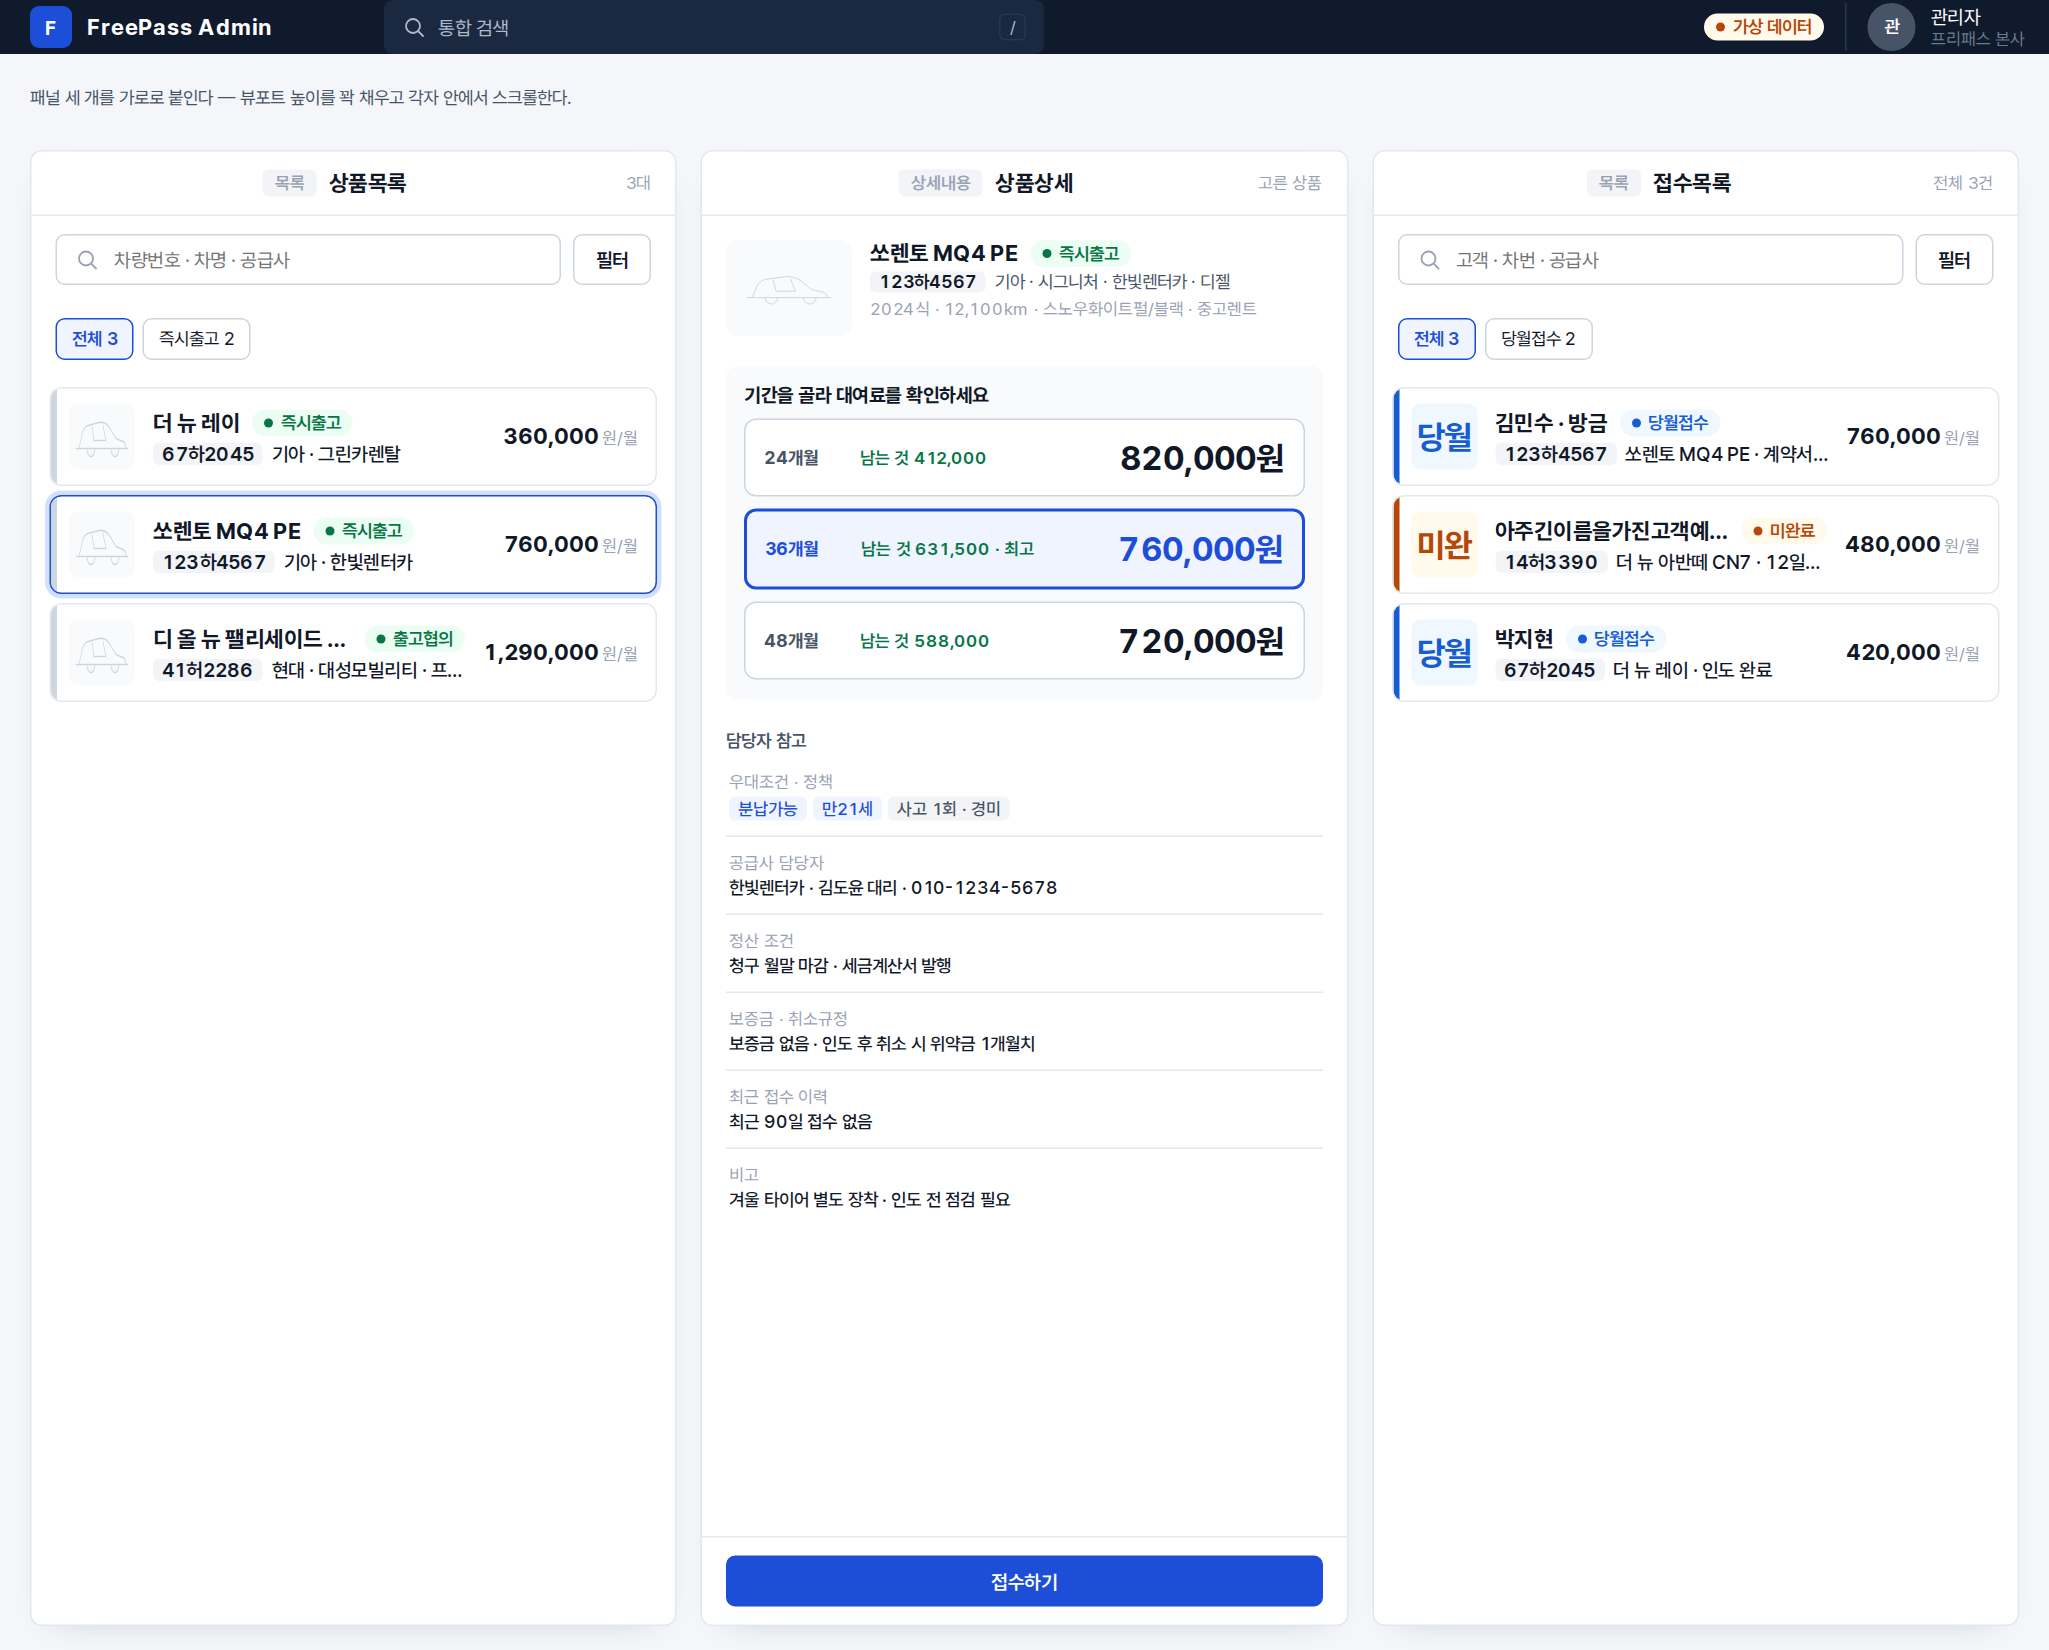
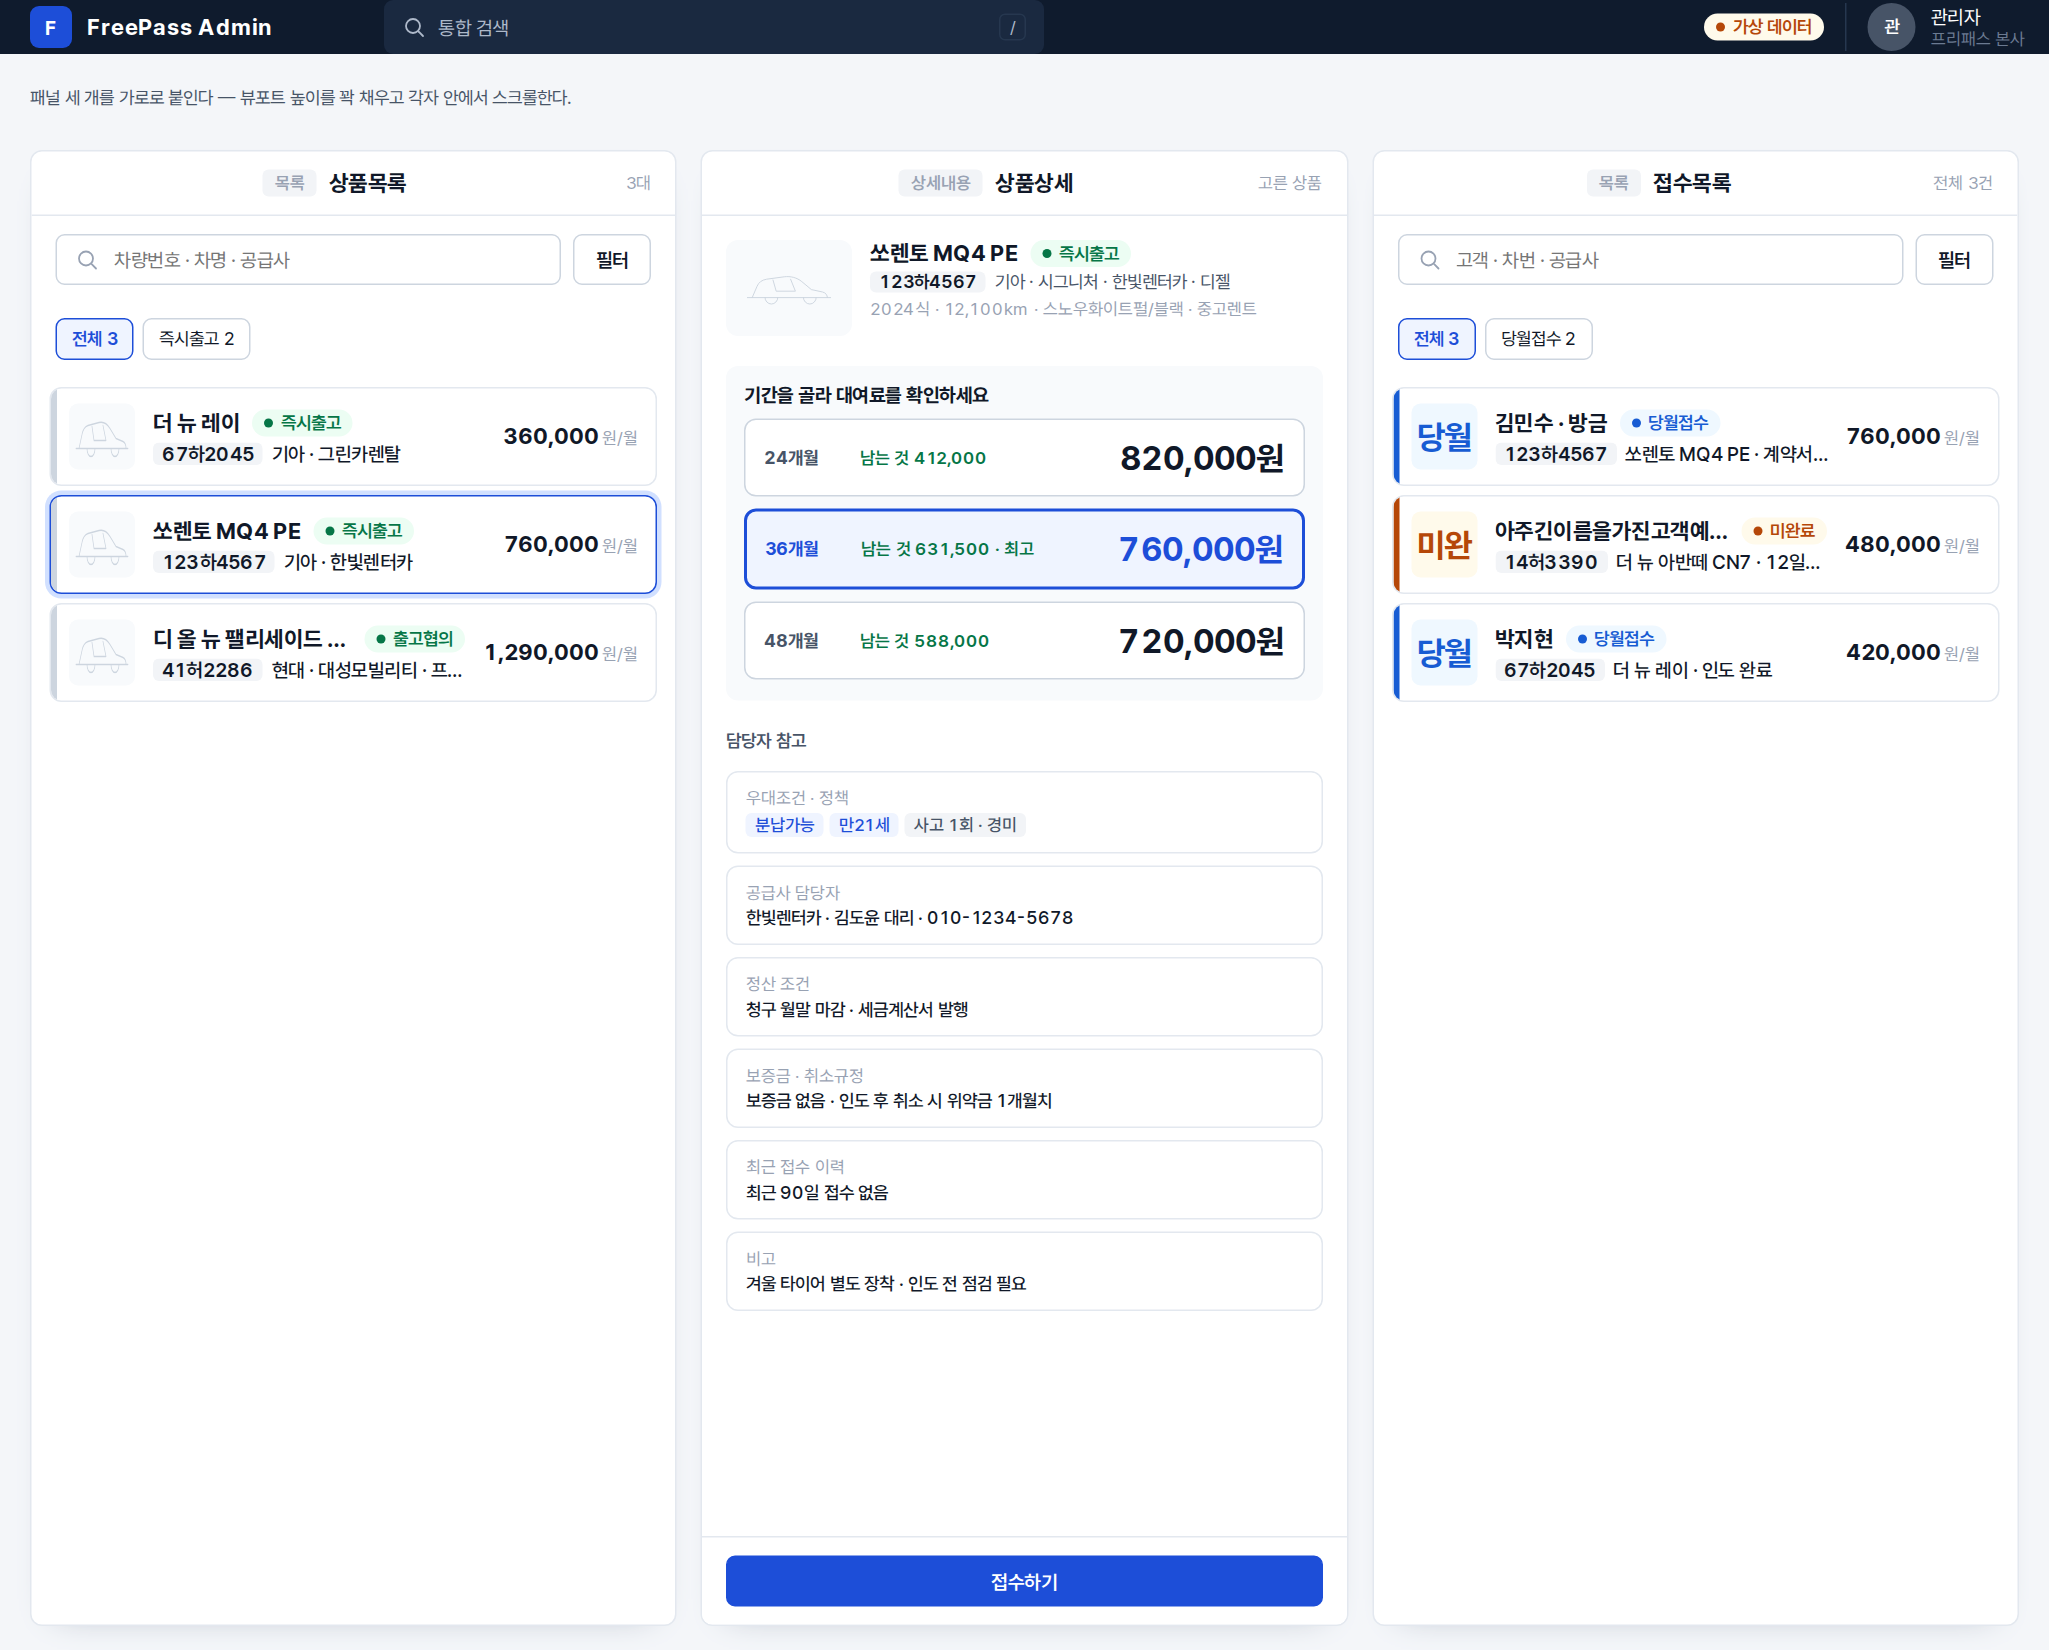
담당자 참고 항목을 구분선 목록 대신 카드 형태로
대표 지시 「카드 형태로 하자니까」 반영. sv-ref-list 항목마다 구분선으로
나누던 것을 자기 테두리를 가진 작은 카드(border-radius · surface 배경)로
바꿨다 — §5-3 목록 카드, sv-term 기간 카드와 같은 카드형 어휘를 따른다.

Claude-Session: https://claude.ai/code/session_01VHqvSXhUy82o1cFFrYMP3F

Changed region(s): [[0.3436, 0.4636, 0.531, 0.7418], [0.3748, 0.7727, 0.4998, 0.8036]]

diff --git a/design/erp-standard/reference/side-by-side.css b/design/erp-standard/reference/side-by-side.css
@@ -31,10 +31,11 @@ body.ref-page { margin: 0; padding: 0; height: 100vh; display: flex; flex-direct
 .sv-term[aria-pressed="true"] { border: 2px solid var(--erp-color-primary); background: var(--erp-color-primary-weak); }
 .sv-term[aria-pressed="true"] b, .sv-term[aria-pressed="true"] strong { color: var(--erp-color-primary); }
 
-/* ③ 담당자 참고 — 아래로 쭉(대표 2026-09-24 「담당자가 볼수 있게끔 쭉쭉쭉쭉쭉쭉 있어야 되거든」):
-   줄마다 구분선을 긋고 라벨 · 값을 세로로 늘어놓는다 — 접수 전 훑어보는 실무 정보라 항목이 늘어도 그대로 쌓인다. */
-.sv-ref-list { display: flex; flex-direction: column; }
-.sv-ref-list > div { padding: 10px 2px; border-top: 1px solid var(--erp-color-line); }
-.sv-ref-list > div:first-child { border-top: 0; padding-top: 0; }
+/* ③ 담당자 참고 — 아래로 쭉, 카드 형태로(대표 2026-09-24 「담당자가 볼수 있게끔 쭉쭉쭉쭉쭉쭉 있어야
+   되거든」 → 「카드 형태로 하자니까」). 구분선으로 나눈 목록 대신, 항목마다 자기 테두리를 가진 작은
+   카드로 쌓는다 — 상품목록 · 접수목록의 §5-3 카드, 기간 선택의 sv-term 카드와 같은 "카드형" 어휘를
+   그대로 따른다. 항목이 늘어도 카드 하나만 더 추가하면 된다. */
+.sv-ref-list { display: flex; flex-direction: column; gap: 8px; }
+.sv-ref-list > div { padding: 10px 12px; border: 1px solid var(--erp-color-line); border-radius: var(--erp-r-lg); background: var(--erp-color-surface); }
 .sv-ref-list dt { margin: 0 0 3px; color: var(--erp-color-text-3); font-size: var(--erp-fs-caption); }
 .sv-ref-list dd { margin: 0; color: var(--erp-color-text); font-size: var(--erp-fs-label); font-weight: var(--erp-fw-medium); }
